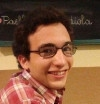
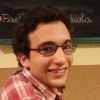
Arreglado bug que achicaba desproporcionadamente las fotos en bajas resoluciones.

diff --git a/assets/css/styles.css b/assets/css/styles.css
@@ -56,3 +56,9 @@
 .navbar {
   margin-bottom: 0!important;
 }
+
+@media (max-width: 450px) {
+  .hidden-xxs {
+    display: none !important;
+  }
+}

diff --git a/static/07_docentes.md b/static/07_docentes.md
@@ -9,7 +9,7 @@ permalink: /docentes/
   <tr>
     <td class="col-md-4"></td>
     <td class="col-md-4">
-      <h2>Profesora</h2>
+      <h2 class="hidden-xxs">Profesora</h2>
     </td>
     <td class="col-md-4"></td>
   </tr>
@@ -17,8 +17,8 @@ permalink: /docentes/
   <tr>
     <td></td>
     <td>
-      <img src="../assets/img/docentes/rosita.jpg" class="center-block img-rounded img-responsive">
-      Rosita Wachenchauzer
+      <img src="../assets/img/docentes/rosita.jpg" title="Rosita Wachenchauzer" alt="Rosita Wachenchauzer" class="center-block img-rounded img-responsive">
+      <span class="hidden-xxs">Rosita Wachenchauzer</span>
     </td>
     <td></td>
   </tr>
@@ -26,128 +26,128 @@ permalink: /docentes/
   <tr>
     <td></td>
     <td>
-      <h2>Ayudantes</h2>
+      <h2 class="hidden-xxs">Ayudantes</h2>
     </td>
     <td></td>
   </tr>
   
   <tr>
     <td>
-      <img src="../assets/img/docentes/nachor.jpg" class="center-block img-rounded img-responsive">
-      Ignacio Raik
+      <img src="../assets/img/docentes/nachor.jpg" title="Ignacio Raik" alt="Ignacio Raik" class="center-block img-rounded img-responsive">
+      <span class="hidden-xxs">Ignacio Raik</span>
     </td>
     <td>
-      <img src="../assets/img/docentes/fedeb.png" class="center-block img-rounded img-responsive">
-      Federico Barrios
+      <img src="../assets/img/docentes/fedeb.png" title="Federico Barrios" alt="Federico Barrios" class="center-block img-rounded img-responsive">
+      <span class="hidden-xxs">Federico Barrios</span>
     </td>
     <td>
-      <img src="../assets/img/docentes/martinb.jpg" class="center-block img-rounded img-responsive">
-      Martín Buchwald
-    </td>
-  </tr>
-  
-  <tr>
-    <td>
-      <img src="../assets/img/docentes/matic.jpg" class="center-block img-rounded img-responsive">
-      Matías Cano
-    </td>
-    <td>
-      <img src="../assets/img/docentes/jorgec.jpg" class="center-block img-rounded img-responsive">
-      Jorge Collinet
-    </td>
-    <td>
-      <img src="../assets/img/docentes/agusm.png" class="center-block img-rounded img-responsive">
-      Agustina Méndez
+      <img src="../assets/img/docentes/martinb.jpg" title="Martín Buchwald" alt="Martín Buchwald" class="center-block img-rounded img-responsive">
+      <span class="hidden-xxs">Martín Buchwald</span>
     </td>
   </tr>
   
   <tr>
     <td>
-      <img src="../assets/img/docentes/javic.jpg" class="center-block img-rounded img-responsive">
-      Javier Choque
+      <img src="../assets/img/docentes/matic.jpg" title="Matías Cano" alt="Matías Cano" class="center-block img-rounded img-responsive">
+      <span class="hidden-xxs">Matías Cano</span>
     </td>
     <td>
-      <img src="../assets/img/docentes/gonzam.jpg" class="center-block img-rounded img-responsive">
-      Gonzalo Marino
+      <img src="../assets/img/docentes/jorgec.jpg" title="Jorge Collinet" alt="Jorge Collinet" class="center-block img-rounded img-responsive">
+      <span class="hidden-xxs">Jorge Collinet</span>
     </td>
     <td>
-      <img src="../assets/img/docentes/joaquint.jpg" class="center-block img-rounded img-responsive">
-      Joaquín Torré
-    </td>
-  </tr>
-  
-  <tr>
-    <td>
-      <img src="../assets/img/docentes/anac.png" class="center-block img-rounded img-responsive">
-      Ana Czarnitzki
-    </td>
-    <td>
-      <img src="../assets/img/docentes/juanmaf.jpg" class="center-block img-rounded img-responsive">
-      Juan Manuel Fresia
-    </td>
-    <td>
-      <img src="../assets/img/docentes/ezeg.jpg" class="center-block img-rounded img-responsive">
-      Ezequiel Genender
+      <img src="../assets/img/docentes/agusm.png" title="Agustina Méndez" alt="Agustina Méndez" class="center-block img-rounded img-responsive">
+      <span class="hidden-xxs">Agustina Méndez</span>
     </td>
   </tr>
   
   <tr>
     <td>
-      <img src="../assets/img/docentes/miguela.png" class="center-block img-rounded img-responsive">
-      Miguel Alfaro
+      <img src="../assets/img/docentes/javic.jpg" title="Javier Choque" alt="Javier Choque" class="center-block img-rounded img-responsive">
+      <span class="hidden-xxs">Javier Choque</span>
     </td>
     <td>
-      <img src="../assets/img/docentes/manub.jpg" class="center-block img-rounded img-responsive">
-      Manuel Battan
+      <img src="../assets/img/docentes/gonzam.jpg" title="Gonzalo Marino" alt="Gonzalo Marino" class="center-block img-rounded img-responsive">
+      <span class="hidden-xxs">Gonzalo Marino</span>
     </td>
     <td>
-      <img src="../assets/img/docentes/jasminasf.jpg" class="center-block img-rounded img-responsive">
-      Jasmina Sella Faena
-    </td>
-  </tr>
-  
-  <tr>
-    <td>
-      <img src="../assets/img/docentes/anas.jpg" class="center-block img-rounded img-responsive">
-      Ana Secchi
-    </td>
-    <td>
-      <img src="../assets/img/docentes/casimirop.jpg" class="center-block img-rounded img-responsive">
-      Casimiro Pastine
-    </td>
-    <td>
-      <img src="../assets/img/docentes/fededm.jpg" class="center-block img-rounded img-responsive">
-      Federico del Mazo
+      <img src="../assets/img/docentes/joaquint.jpg" title="Joaquín Torré" alt="Joaquín Torré" class="center-block img-rounded img-responsive">
+      <span class="hidden-xxs">Joaquín Torré</span>
     </td>
   </tr>
   
   <tr>
     <td>
-      <img src="../assets/img/docentes/florr.png" class="center-block img-rounded img-responsive">
-      Florencia Rodriguez
+      <img src="../assets/img/docentes/anac.png" title="Ana Czarnitzki" alt="Ana Czarnitzki" class="center-block img-rounded img-responsive">
+      <span class="hidden-xxs">Ana Czarnitzki</span>
     </td>
     <td>
-      <img src="../assets/img/docentes/gianc.jpg" class="center-block img-rounded img-responsive">
-      Gianmarco Cafferatta
+      <img src="../assets/img/docentes/juanmaf.jpg" title="Juan Manuel Fresia" alt="Juan Manuel Fresia" class="center-block img-rounded img-responsive">
+      <span class="hidden-xxs">Juan Manuel Fresia</span>
     </td>
     <td>
-      <img src="../assets/img/docentes/lautarom.jpg" class="center-block img-rounded img-responsive">
-      Lautaro Manzano
+      <img src="../assets/img/docentes/ezeg.jpg" title="Ezequiel Genender" alt="Ezequiel Genender" class="center-block img-rounded img-responsive">
+      <span class="hidden-xxs">Ezequiel Genender</span>
     </td>
   </tr>
   
   <tr>
     <td>
-      <img src="../assets/img/docentes/nicolasv.png" class="center-block img-rounded img-responsive">
-      Nicolás Vázquez
+      <img src="../assets/img/docentes/miguela.png" title="Miguel Alfaro" alt="Miguel Alfaro" class="center-block img-rounded img-responsive">
+      <span class="hidden-xxs">Miguel Alfaro</span>
     </td>
     <td>
-      <img src="../assets/img/docentes/olif.jpg" class="center-block img-rounded img-responsive">
-      Olivia Fernandez
+      <img src="../assets/img/docentes/manub.jpg" title="Manuel Battan" alt="Manuel Battan" class="center-block img-rounded img-responsive">
+      <span class="hidden-xxs">Manuel Battan</span>
     </td>
     <td>
-      <img src="../assets/img/docentes/tomasa.jpg" class="center-block img-rounded img-responsive">
-      Tomás Accini
+      <img src="../assets/img/docentes/jasminasf.jpg" title="Jasmina Sella Faena" alt="Jasmina Sella Faena" class="center-block img-rounded img-responsive">
+      <span class="hidden-xxs">Jasmina Sella Faena</span>
+    </td>
+  </tr>
+  
+  <tr>
+    <td>
+      <img src="../assets/img/docentes/anas.jpg" title="Ana Secchi" alt="Ana Secchi" class="center-block img-rounded img-responsive">
+      <span class="hidden-xxs">Ana Secchi</span>
+    </td>
+    <td>
+      <img src="../assets/img/docentes/casimirop.jpg" title="Casimiro Pastine" alt="Casimiro Pastine" class="center-block img-rounded img-responsive">
+      <span class="hidden-xxs">Casimiro Pastine</span>
+    </td>
+    <td>
+      <img src="../assets/img/docentes/fededm.jpg" title="Federico del Mazo" alt="Federico del Mazo" class="center-block img-rounded img-responsive">
+      <span class="hidden-xxs">Federico del Mazo</span>
+    </td>
+  </tr>
+  
+  <tr>
+    <td>
+      <img src="../assets/img/docentes/florr.png" title="Florencia Rodríguez" alt="Florencia Rodríguez" class="center-block img-rounded img-responsive">
+      <span class="hidden-xxs">Florencia Rodríguez</span>
+    </td>
+    <td>
+      <img src="../assets/img/docentes/gianc.jpg" title="Gianmarco Cafferata" alt="Gianmarco Cafferata" class="center-block img-rounded img-responsive">
+      <span class="hidden-xxs">Gianmarco Cafferata</span>
+    </td>
+    <td>
+      <img src="../assets/img/docentes/lautarom.jpg" title="Lautaro Manzano" alt="Lautaro Manzano" class="center-block img-rounded img-responsive">
+      <span class="hidden-xxs">Lautaro Manzano</span>
+    </td>
+  </tr>
+  
+  <tr>
+    <td>
+      <img src="../assets/img/docentes/nicolasv.png" title="Nicolás Vázquez" alt="Nicolás Vázquez" class="center-block img-rounded img-responsive">
+      <span class="hidden-xxs">Nicolás Vázquez</span>
+    </td>
+    <td>
+      <img src="../assets/img/docentes/olif.jpg" title="Olivia Fernández" alt="Olivia Fernández" class="center-block img-rounded img-responsive">
+      <span class="hidden-xxs">Olivia Fernández</span>
+    </td>
+    <td>
+      <img src="../assets/img/docentes/tomasa.jpg" title="Tomás Accini" alt="Tomás Accini" class="center-block img-rounded img-responsive">
+      <span class="hidden-xxs">Tomás Accini</span>
     </td>
   </tr>
 
